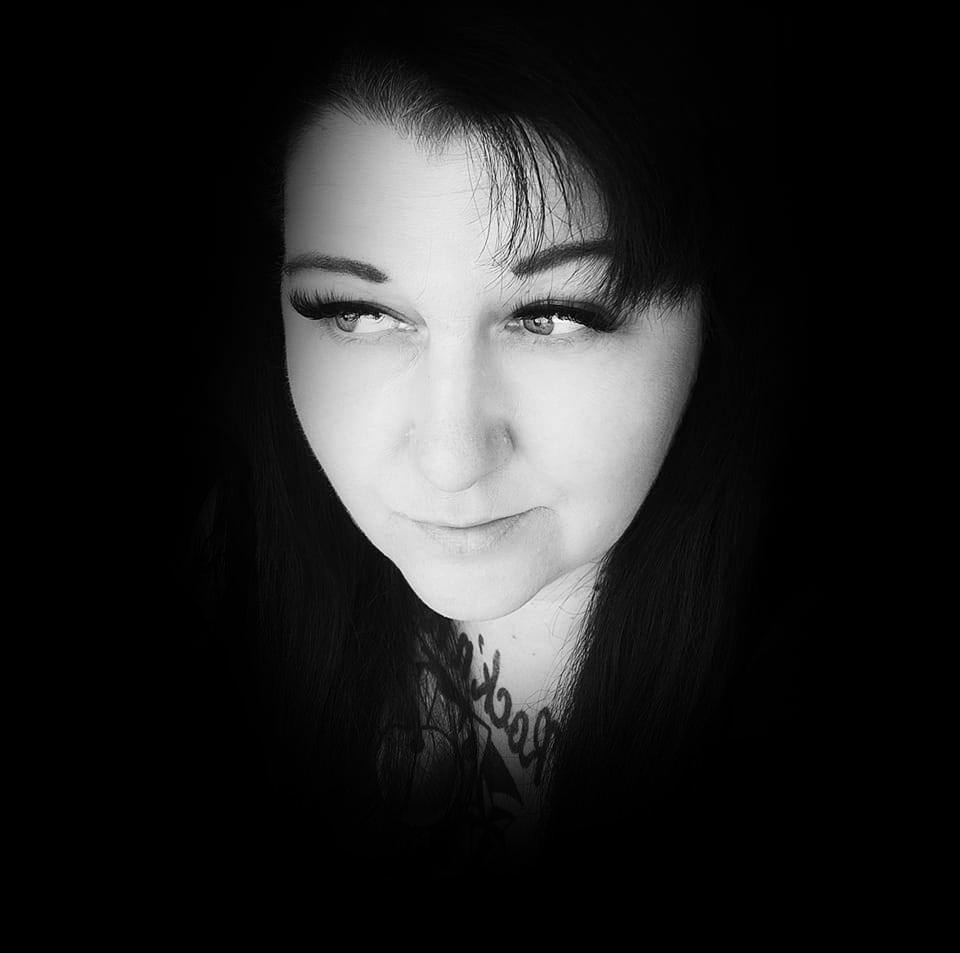
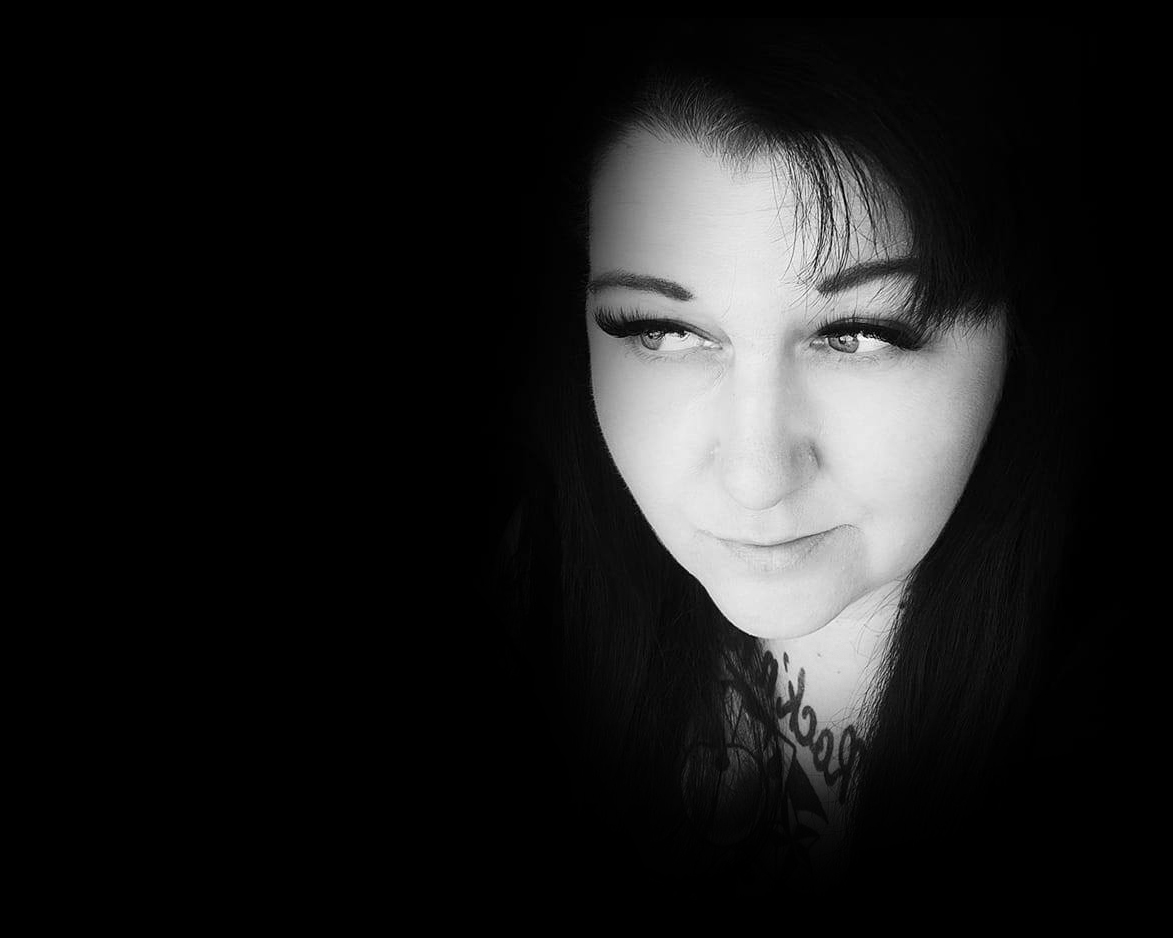
..

Changed region(s): [[0.2812, 0.0618, 0.875, 0.8657]]

diff --git a/index.html b/index.html
@@ -44,7 +44,9 @@
           </nav>
 
 
-          <div class="container col-xxl-8 px-4 py-5">
+<div id="container_new">
+
+          <div class="container col-xxl-8 px-4 py-5 mt-5">
             <div class="row flex-lg-row-reverse align-items-center g-5 py-5">
               <div class="col-10 col-sm-8 col-lg-6">
                 <img src="assets/img/profil.jpg" class="d-block mx- img-fluid bild10" alt="Bootstrap Themes" loading="lazy">
@@ -64,6 +66,12 @@
             </div>
           </div>
 
+          
+        </div>
+
+
+
+<div id="container_new">
 
 <div class="container mt-5" class="in_wrapper">
 <div class="row">
@@ -129,7 +137,7 @@
                   </div>
             
 
-
+                </div> 
 
 
 

diff --git a/style.css b/style.css
@@ -4,6 +4,20 @@ body {
 }
 
 
+#container_allgemein {
+
+   min-height: 500px;
+    background-color: #2f2f2f;
+}
+
+#container_new {
+
+    width: 90%;
+     background-color: black;
+     margin: 0 auto;
+ }
+ 
+
 
 #footer {
 
@@ -29,17 +43,7 @@ body {
 
 .bild10 {
 
-    width: 65%;
+    width: 95%;
 }
 
 
-.img_card {
-
-    width: 70%;
-
-}
-
-.card1 {
-
-    background-color: white;
-}
